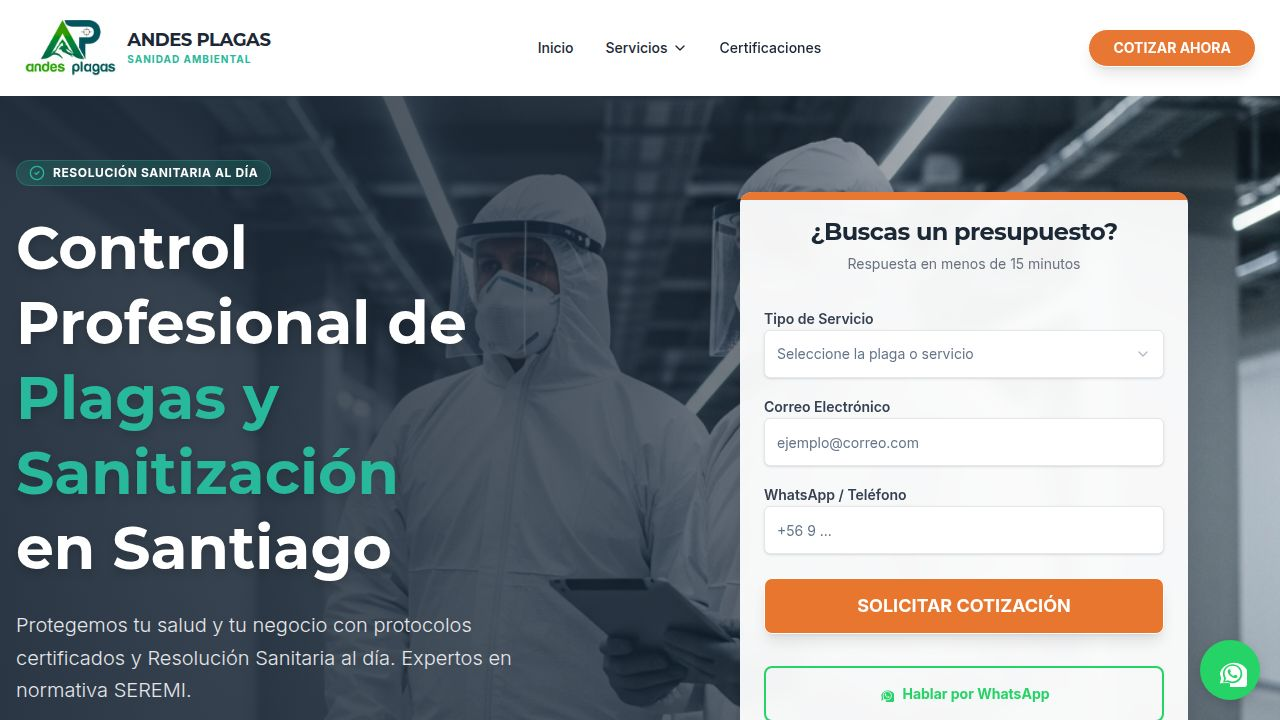
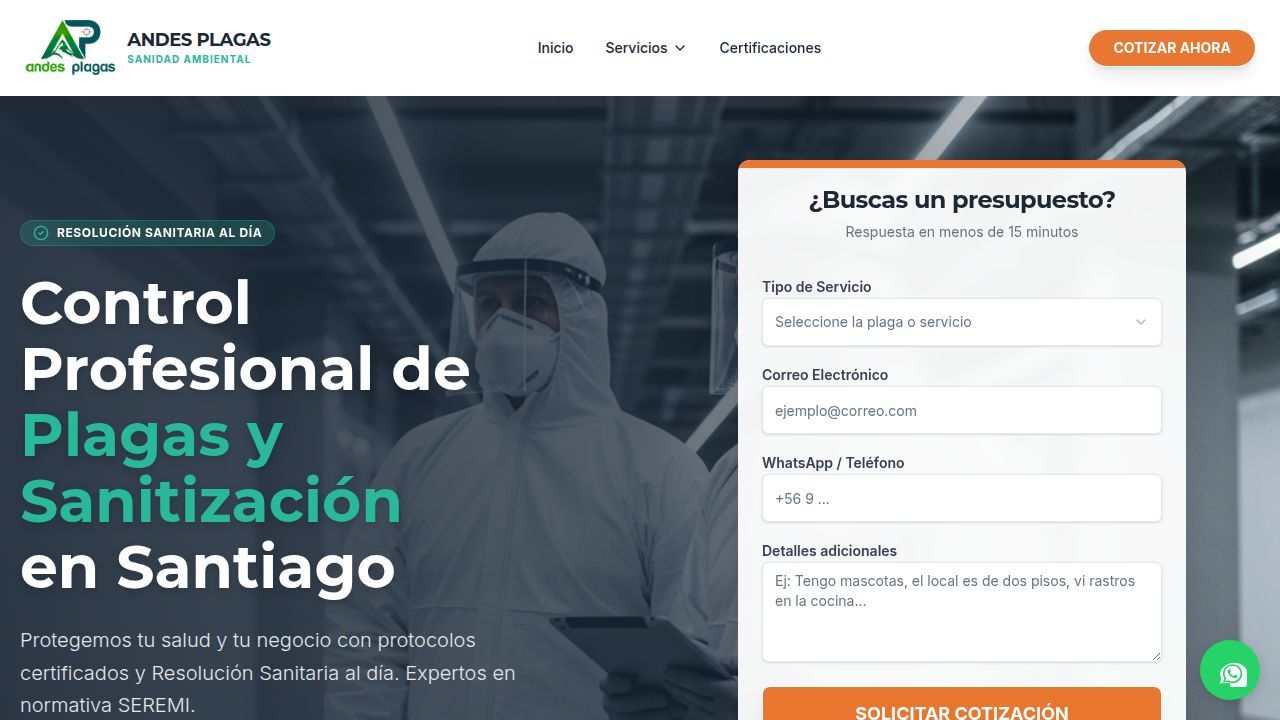
Add additional details field to all website forms
Introduce a new optional textarea field named "comentarios" to the form schemas and components in `hero.tsx`, `desinsectacion.tsx`, `desratizacion.tsx`, and `sanitizacion.tsx`. This field allows users to provide extra information, and its value is now included in the data sent to the webhook.

Replit-Commit-Author: Agent
Replit-Commit-Session-Id: cdef0bc6-3d74-45e5-8ab1-0b4f23b8f58e
Replit-Commit-Checkpoint-Type: full_checkpoint
Replit-Commit-Event-Id: 14a61814-c331-415a-8415-4e5d65fae423
Replit-Commit-Screenshot-Url: https://storage.googleapis.com/screenshot-production-us-central1/36b1f49b-6cd7-4f11-af2c-186fa44c1cf6/cdef0bc6-3d74-45e5-8ab1-0b4f23b8f58e/lZ5dvDk
Replit-Helium-Checkpoint-Created: true

diff --git a/client/src/pages/desratizacion.tsx b/client/src/pages/desratizacion.tsx
@@ -4,6 +4,7 @@ import Footer from "@/components/footer";
 import { Button } from "@/components/ui/button";
 import { Input } from "@/components/ui/input";
 import { Select, SelectContent, SelectItem, SelectTrigger, SelectValue } from "@/components/ui/select";
+import { Textarea } from "@/components/ui/textarea";
 import { Card, CardContent, CardHeader, CardTitle } from "@/components/ui/card";
 import { Form, FormControl, FormField, FormItem, FormLabel, FormMessage } from "@/components/ui/form";
 import { useForm } from "react-hook-form";
@@ -19,6 +20,7 @@ const formSchema = z.object({
   infestacion: z.string().min(1, "Seleccione nivel de infestación"),
   email: z.string().email("Ingrese un correo válido"),
   telefono: z.string().min(1, "Ingrese su teléfono"),
+  comentarios: z.string().optional(),
 });
 
 export default function Desratizacion() {
@@ -36,6 +38,7 @@ export default function Desratizacion() {
       infestacion: "",
       email: "",
       telefono: "",
+      comentarios: "",
     },
   });
 
@@ -53,6 +56,7 @@ export default function Desratizacion() {
           infestacion: values.infestacion,
           email: values.email,
           telefono: values.telefono,
+          comentarios: values.comentarios,
           origen: "Página Desratización"
         }),
       });
@@ -173,6 +177,12 @@ export default function Desratizacion() {
                         <FormItem>
                           <FormLabel className="font-semibold text-gray-700">Teléfono / WhatsApp</FormLabel>
                           <FormControl><Input placeholder="+56 9..." {...field} className="bg-white h-12 border-gray-200" /></FormControl>
+                        </FormItem>
+                      )} />
+                      <FormField control={form.control} name="comentarios" render={({ field }) => (
+                        <FormItem>
+                          <FormLabel className="font-semibold text-gray-700">Detalles adicionales</FormLabel>
+                          <FormControl><Textarea placeholder="Ej: Tengo mascotas, el local es de dos pisos, vi rastros en la cocina..." {...field} className="bg-white min-h-[100px] resize-y border-gray-200" /></FormControl>
                         </FormItem>
                       )} />
                       <Button type="submit" disabled={isSubmitting} className="w-full bg-[#E8762E] hover:bg-[#D16524] text-white font-bold h-14 rounded-lg shadow-lg hover:shadow-orange-500/30 transition-all mt-4 cursor-pointer">

diff --git a/client/src/components/hero.tsx b/client/src/components/hero.tsx
@@ -2,6 +2,7 @@ import { useState } from "react";
 import { Button } from "@/components/ui/button";
 import { Input } from "@/components/ui/input";
 import { Select, SelectContent, SelectItem, SelectTrigger, SelectValue } from "@/components/ui/select";
+import { Textarea } from "@/components/ui/textarea";
 import { ArrowRight, CheckCircle2 } from "lucide-react";
 import { useForm } from "react-hook-form";
 import { zodResolver } from "@hookform/resolvers/zod";
@@ -14,6 +15,7 @@ const formSchema = z.object({
   plaga: z.string().min(1, "Seleccione un tipo de plaga"),
   email: z.string().email("Ingrese un correo válido"),
   contacto: z.string().min(1, "Ingrese su teléfono o WhatsApp"),
+  comentarios: z.string().optional(),
 });
 
 export default function Hero() {
@@ -25,6 +27,7 @@ export default function Hero() {
       plaga: "",
       email: "",
       contacto: "",
+      comentarios: "",
     },
   });
 
@@ -40,6 +43,7 @@ export default function Hero() {
           servicio: values.plaga,
           email: values.email,
           telefono: values.contacto,
+          comentarios: values.comentarios,
           origen: "Hero Form"
         }),
       });
@@ -173,6 +177,24 @@ export default function Hero() {
                           <FormLabel className="font-semibold text-gray-700">WhatsApp / Teléfono</FormLabel>
                           <FormControl>
                             <Input placeholder="+56 9 ..." {...field} className="h-12 border-gray-200 bg-white" />
+                          </FormControl>
+                          <FormMessage />
+                        </FormItem>
+                      )}
+                    />
+
+                    <FormField
+                      control={form.control}
+                      name="comentarios"
+                      render={({ field }) => (
+                        <FormItem>
+                          <FormLabel className="font-semibold text-gray-700">Detalles adicionales</FormLabel>
+                          <FormControl>
+                            <Textarea 
+                              placeholder="Ej: Tengo mascotas, el local es de dos pisos, vi rastros en la cocina..." 
+                              className="min-h-[100px] resize-y border-gray-200 bg-white"
+                              {...field} 
+                            />
                           </FormControl>
                           <FormMessage />
                         </FormItem>

diff --git a/client/src/pages/sanitizacion.tsx b/client/src/pages/sanitizacion.tsx
@@ -4,6 +4,7 @@ import Footer from "@/components/footer";
 import { Button } from "@/components/ui/button";
 import { Input } from "@/components/ui/input";
 import { Select, SelectContent, SelectItem, SelectTrigger, SelectValue } from "@/components/ui/select";
+import { Textarea } from "@/components/ui/textarea";
 import { Card, CardContent, CardHeader, CardTitle } from "@/components/ui/card";
 import { Form, FormControl, FormField, FormItem, FormLabel, FormMessage } from "@/components/ui/form";
 import { useForm } from "react-hook-form";
@@ -19,6 +20,7 @@ const formSchema = z.object({
   metros: z.string().min(1, "Ingrese metros aproximados"),
   email: z.string().email("Ingrese un correo válido"),
   telefono: z.string().min(1, "Ingrese su teléfono"),
+  comentarios: z.string().optional(),
 });
 
 export default function Sanitizacion() {
@@ -36,6 +38,7 @@ export default function Sanitizacion() {
       metros: "",
       email: "",
       telefono: "",
+      comentarios: "",
     },
   });
 
@@ -53,6 +56,7 @@ export default function Sanitizacion() {
           metros: values.metros,
           email: values.email,
           telefono: values.telefono,
+          comentarios: values.comentarios,
           origen: "Página Sanitización"
         }),
       });
@@ -168,6 +172,12 @@ export default function Sanitizacion() {
                         <FormItem>
                           <FormLabel className="font-semibold text-gray-700">Teléfono / WhatsApp</FormLabel>
                           <FormControl><Input placeholder="+56 9..." {...field} className="bg-white h-12 border-gray-200" /></FormControl>
+                        </FormItem>
+                      )} />
+                      <FormField control={form.control} name="comentarios" render={({ field }) => (
+                        <FormItem>
+                          <FormLabel className="font-semibold text-gray-700">Detalles adicionales</FormLabel>
+                          <FormControl><Textarea placeholder="Ej: Tengo mascotas, el local es de dos pisos, vi rastros en la cocina..." {...field} className="bg-white min-h-[100px] resize-y border-gray-200" /></FormControl>
                         </FormItem>
                       )} />
                       <Button type="submit" disabled={isSubmitting} className="w-full bg-[#E8762E] hover:bg-[#D16524] text-white font-bold h-14 rounded-lg shadow-lg hover:shadow-orange-500/30 transition-all mt-4 cursor-pointer">

diff --git a/client/src/pages/desinsectacion.tsx b/client/src/pages/desinsectacion.tsx
@@ -4,6 +4,7 @@ import Footer from "@/components/footer";
 import { Button } from "@/components/ui/button";
 import { Input } from "@/components/ui/input";
 import { Select, SelectContent, SelectItem, SelectTrigger, SelectValue } from "@/components/ui/select";
+import { Textarea } from "@/components/ui/textarea";
 import { Card, CardContent, CardHeader, CardTitle } from "@/components/ui/card";
 import { Form, FormControl, FormField, FormItem, FormLabel } from "@/components/ui/form";
 import { useForm } from "react-hook-form";
@@ -19,6 +20,7 @@ const formSchema = z.object({
   metros: z.string().min(1, "Ingrese metros aproximados"),
   email: z.string().email("Ingrese un correo válido"),
   telefono: z.string().min(1, "Ingrese su teléfono"),
+  comentarios: z.string().optional(),
 });
 
 export default function Desinsectacion() {
@@ -36,6 +38,7 @@ export default function Desinsectacion() {
       metros: "",
       email: "",
       telefono: "",
+      comentarios: "",
     },
   });
 
@@ -53,6 +56,7 @@ export default function Desinsectacion() {
           metros: values.metros,
           email: values.email,
           telefono: values.telefono,
+          comentarios: values.comentarios,
           origen: "Página Desinsectación"
         }),
       });
@@ -166,6 +170,12 @@ export default function Desinsectacion() {
                         <FormItem>
                           <FormLabel className="font-semibold text-gray-700">Teléfono / WhatsApp</FormLabel>
                           <FormControl><Input placeholder="+56 9..." {...field} className="bg-white h-12 border-gray-200" /></FormControl>
+                        </FormItem>
+                      )} />
+                      <FormField control={form.control} name="comentarios" render={({ field }) => (
+                        <FormItem>
+                          <FormLabel className="font-semibold text-gray-700">Detalles adicionales</FormLabel>
+                          <FormControl><Textarea placeholder="Ej: Tengo mascotas, el local es de dos pisos, vi rastros en la cocina..." {...field} className="bg-white min-h-[100px] resize-y border-gray-200" /></FormControl>
                         </FormItem>
                       )} />
                       <Button type="submit" disabled={isSubmitting} className="w-full bg-[#E8762E] hover:bg-[#D16524] text-white font-bold h-14 rounded-lg shadow-lg hover:shadow-orange-500/30 transition-all mt-4 cursor-pointer">
